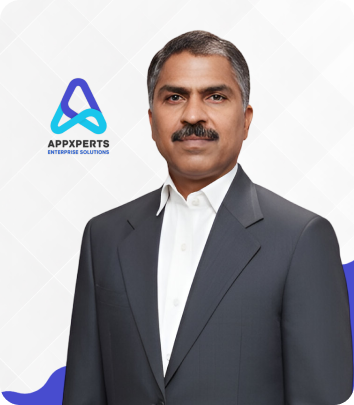
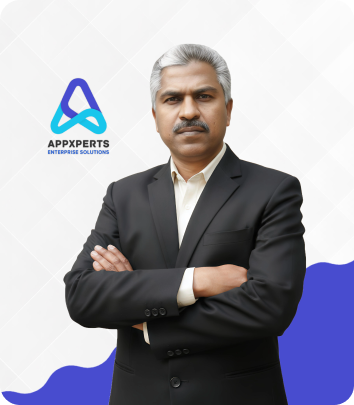
added changes

diff --git a/src/components/roadmap.js b/src/components/roadmap.js
@@ -6,7 +6,7 @@ const Roadmap = () => {
       quarter: "Dec 2021",
       title: "AppXperts Incorporated",
       location: "Nagapattinam, India",
-      items: ["Foundation of the company", "Registered corporate entity"],
+      items: ["Company founded", "Registered as a corporate entity"],
     },
     {
       quarter: "Mar 2022",
@@ -18,7 +18,7 @@ const Roadmap = () => {
       quarter: "Sep 2022",
       title: "Incorporated in Singapore",
       location: "Singapore",
-      items: ["Regional presence established", "Cross-border engagements"],
+      items: ["Established regional presence", "Initiated cross-border engagements"],
     },
     {
       quarter: "Jan 2024",
@@ -29,7 +29,7 @@ const Roadmap = () => {
       quarter: "Nov 2024",
       title: "Incorporated in UAE",
       location: "Sharjah, UAE",
-      items: ["Middle East expansion", "New partnerships"],
+      items: ["Expanded into the Middle East", "New partnerships"],
     },
     {
       quarter: "Aug 2025",
@@ -39,7 +39,7 @@ const Roadmap = () => {
     {
       quarter: "Coming Soon",
       title: "USA Incorporation",
-      items: ["Planned expansion into North America"],
+      items: ["Planned expansion into the United States"],
       final: true,
     },
   ];

diff --git a/src/Pages/ServicesPage.js b/src/Pages/ServicesPage.js
@@ -14,10 +14,10 @@ const ServicesPage = () => {
   return (
     <>
     <Helmet>
-  <title>Our Services – AppXperts Enterprise Software & Digital Solutions</title>
+  <title>Our Services – Xperts Software Solutions Private Limited</title>
   <meta
     name="description"
-    content="Explore AppXperts' range of services including software development, cloud solutions, mobile apps, and UI/UX design tailored to your business needs."
+    content="Explore Xperts Software Solutions Private Limited's range of services including software development, cloud solutions, mobile apps, and UI/UX design tailored to your business needs."
   />
   <meta property="og:url" content="https://www.appxes.com/services" />
   <link rel="canonical" href="https://www.appxes.com/services" />

diff --git a/public/index.html b/public/index.html
@@ -5,12 +5,12 @@
     <link rel="icon" href="%PUBLIC_URL%/favicon.ico" />
     <meta name="viewport" content="width=device-width, initial-scale=1" />
     <meta name="theme-color" content="#000000" />
-    <meta name="description" content="AppXperts Website" />
+    <meta name="description" content="Xperts Website" />
     <link rel="apple-touch-icon" href="%PUBLIC_URL%/logo192.png" />
     <link rel="manifest" href="%PUBLIC_URL%/manifest.json" />
   <!-- Bootstrap Icons CDN -->
   <link rel="stylesheet" href="https://cdn.jsdelivr.net/npm/bootstrap-icons@1.11.3/font/bootstrap-icons.min.css" />
-    <title>AppXperts </title>
+    <title>Xperts </title>
   </head>
   <body>
     <noscript>You need to enable JavaScript to run this app.</noscript>

diff --git a/src/components/Navigation.js b/src/components/Navigation.js
@@ -1,5 +1,5 @@
 import React, { useState } from "react";
-import logo from "../assets/images/Xperts SOFTWARE Side Text.png";
+import logo from "../assets/images/Side icon.png";
 import "../App.css";
 import BookNowPopup from "./BookNowPopup";
 
@@ -70,7 +70,7 @@ const Navigation = () => {
           z-index: 10;
         }
         .nav-logo img {
-          width: 140px;
+          width: 200px;
           height: auto;
           object-fit: contain;
           display: block;
@@ -91,7 +91,7 @@ const Navigation = () => {
             padding: 14px 18px;
           }
           .nav-logo img {
-            width: 110px;
+            width: 150px;
           }
           .nav-list {
             gap: 18px;

diff --git a/src/components/Contact/ContactInfo.js b/src/components/Contact/ContactInfo.js
@@ -63,8 +63,9 @@ const ContactInfo = () => {
 
           {/* Registered office info (centered, 2 lines on desktop) */}
           <div className="contact-registered">
-            <strong>Registered office at:</strong> <strong>Xperts Software Solutions Private Limited</strong>, D.51, Iron Steel Market Sathangadu, Manali,<br />
-            Tiruvallur, Ambattur, Tamil Nadu, 600068
+            <div><strong>Registered office at:</strong></div>
+            <div><strong>Xperts Software Solutions Private Limited</strong></div>
+            <div>D.51, Iron Steel Market Sathangadu, Manali, Tiruvallur, Ambattur, Tamil Nadu, 600068</div>
           </div>
 
           <div className="contact-socials">

diff --git a/src/components/Footer.js b/src/components/Footer.js
@@ -1,5 +1,5 @@
 import React from "react";
-import logo from "../assets/images/Xperts SOFTWARE Side Text.png";
+import logo from "../assets/images/Side icon.png";
 import mail from "../assets/Footer/mail.png";
 import linkedIn from "../assets/Footer/linkedin-in.png";
 import call from "../assets/Footer/call.png";
@@ -66,7 +66,7 @@ const Footer = () => {
               color: "#555",
               fontSize: 16,
               marginBottom: 8,
-              textAlign: "justify",
+              textAlign: "left",
               maxWidth: 220,
               lineHeight: 1.6,
               fontFamily: "Poppins, sans-serif",

diff --git a/src/Pages/HomePage.js b/src/Pages/HomePage.js
@@ -17,7 +17,7 @@ const HomePage = () => {
     <>
       {/* ✅ SEO Meta Tags */}
       <Helmet>
-        <title>AppXperts – Digital Solutions & Enterprise Software Development</title>
+        <title>Xperts – Digital Solutions & Enterprise Software Development</title>
         <meta
           name="description"
           content="<strong>AppXperts Enterprise Solutions (Xperts Software Solutions Private Limited)</strong> offers expert software development, digital transformation, UI/UX design, cloud solutions, and enterprise app development to help businesses innovate and grow."

diff --git a/src/components/Career/Career.js b/src/components/Career/Career.js
@@ -160,7 +160,7 @@ const Career = () => {
             color: "#000",
           }}
         >
-       At <strong>AppXperts (Xperts Software Solutions Private Limited)</strong>, we’re more than just a workplace — we’re a community
+       At <strong>AppXperts (Xperts Software Solutions Private Limited)</strong>, we’re more than just a workplace we’re a community
             of innovators, problem-solvers, and dreamers. Join us to create
             cutting-edge digital solutions while building a career that inspires
             you every day.

diff --git a/src/Pages/Contact.js b/src/Pages/Contact.js
@@ -14,7 +14,7 @@ const ContactPage = () => {
   return (
     <>
     <Helmet>
-  <title>Contact AppXperts – Let’s Build Your Digital Future</title>
+  <title>Contact Xperts – Let’s Build Your Digital Future</title>
   <meta
     name="description"
     content="Get in touch with <strong>AppXperts Enterprise Solutions (Xperts Software Solutions Private Limited)</strong>. Reach our team for inquiries, project discussions, or support for your digital transformation needs."

diff --git a/src/Pages/AboutUsPage.js b/src/Pages/AboutUsPage.js
@@ -12,7 +12,7 @@ const AboutUsPage = () => {
   return (
     <>
     <Helmet>
-  <title>About AppXperts – Who We Are & Our Mission</title>
+  <title>About Xperts – Who We Are & Our Mission</title>
   <meta
     name="description"
     content="Learn about <strong>AppXperts Enterprise Solutions (Xperts Software Solutions Private Limited)</strong> — our vision, mission, and expert team dedicated to providing innovative digital and enterprise solutions."
